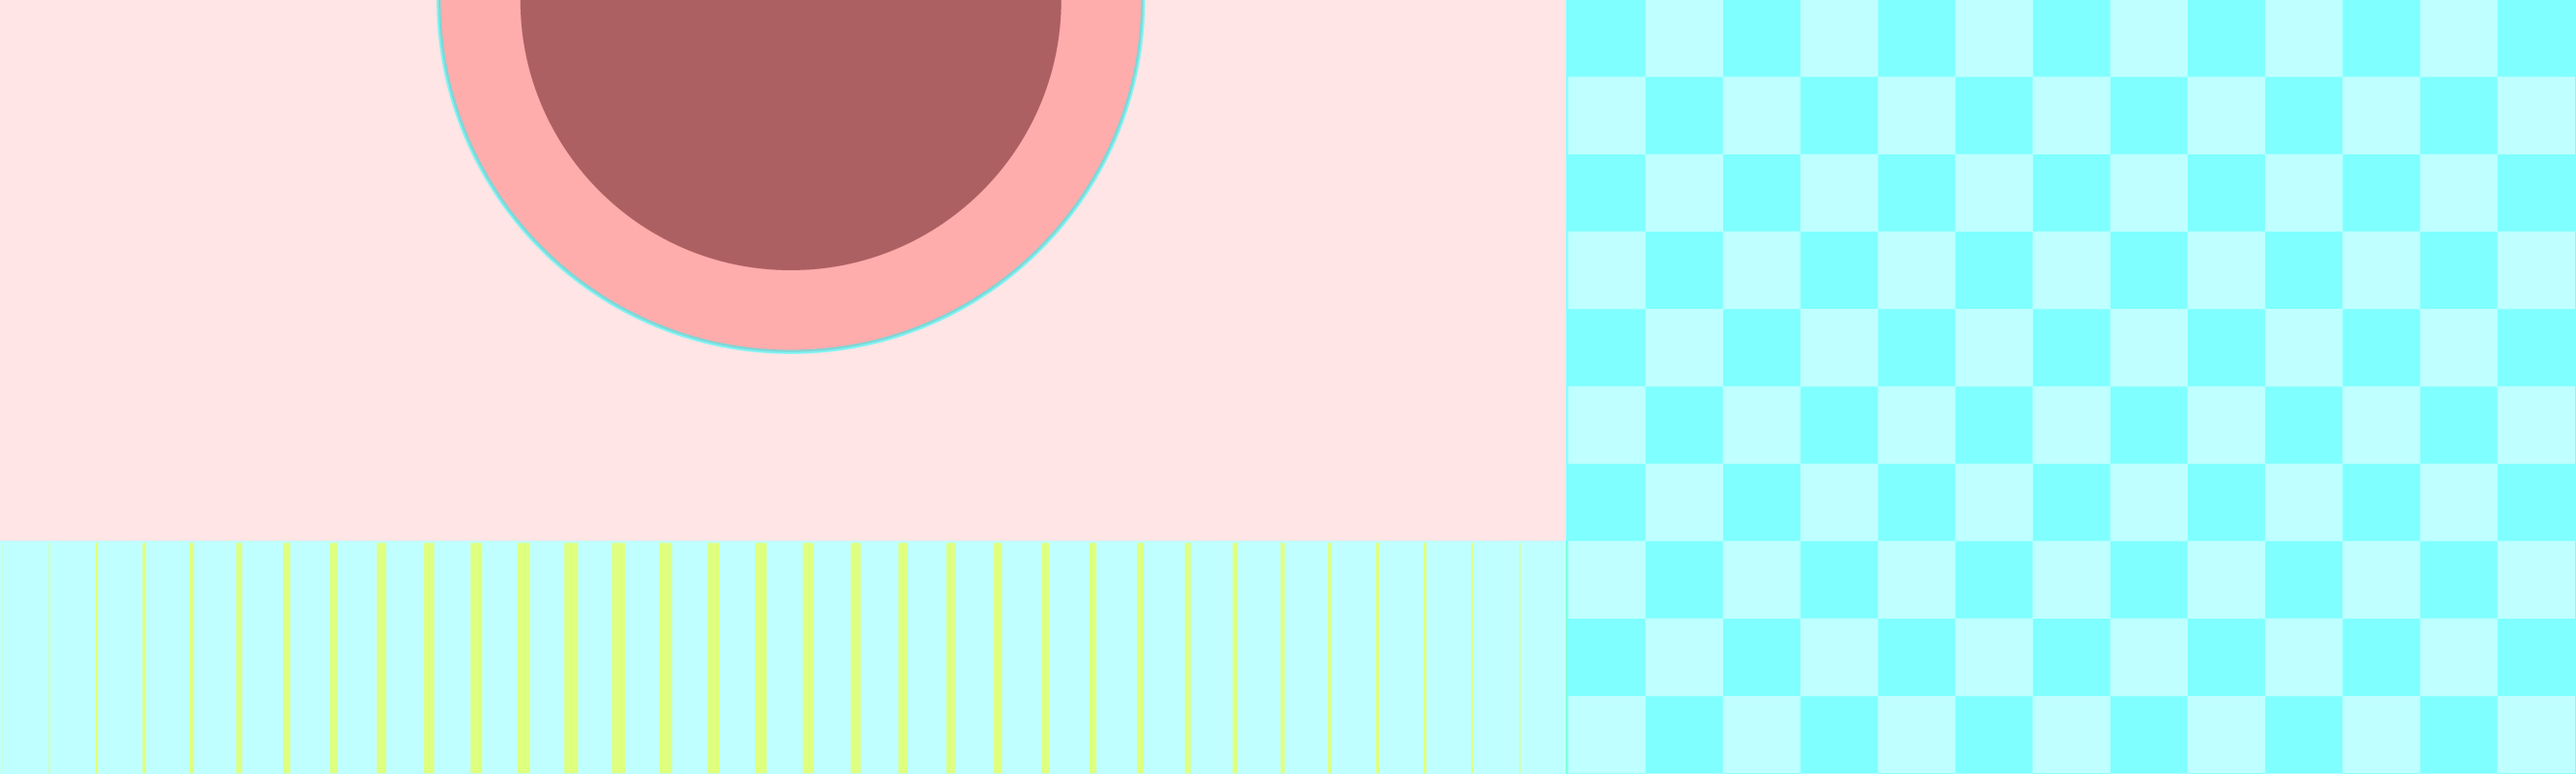
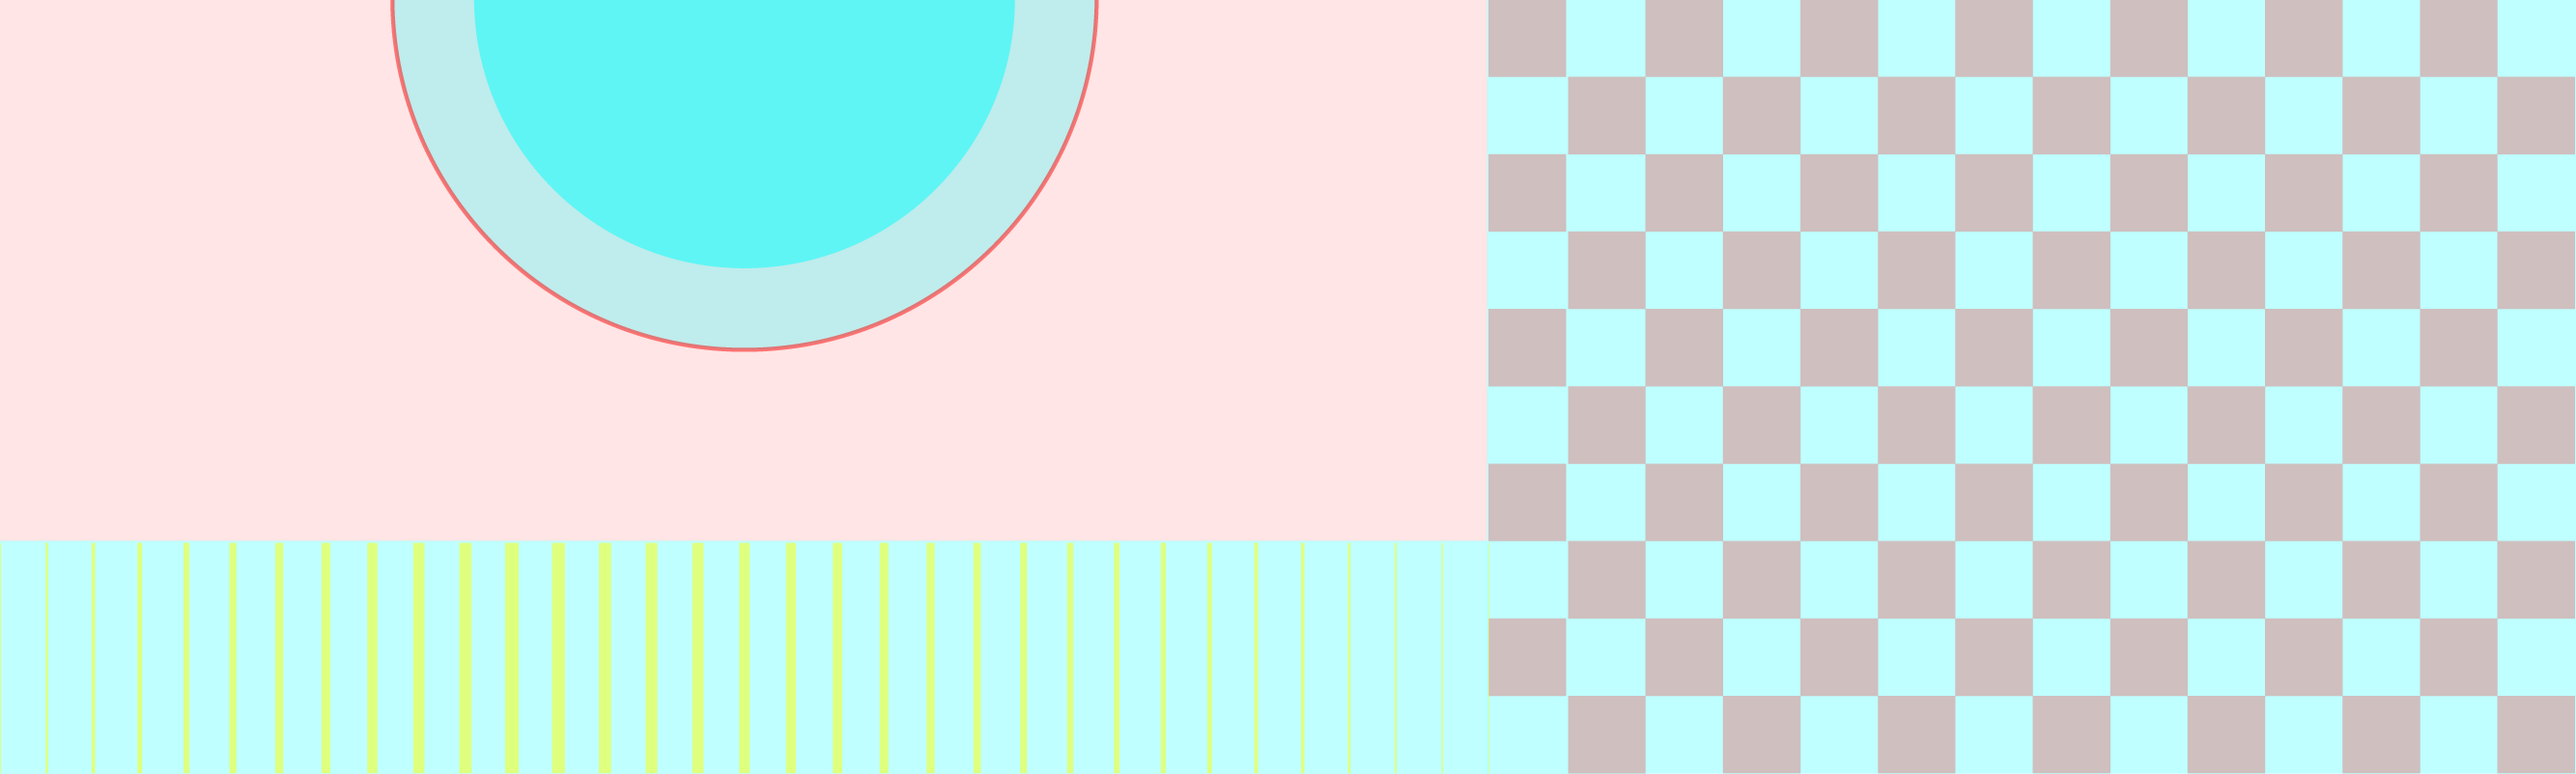
updating layout, navbar, and homepage

diff --git a/client/src/screens/JamDetail/JamDetail.jsx b/client/src/screens/JamDetail/JamDetail.jsx
@@ -4,7 +4,7 @@ import { useParams } from "react-router-dom";
 import { getJam, deleteJam } from "../../services/jams";
 import { useHistory } from "react-router";
 import "./JamDetail.css";
-// import Button from "react-bootstrap/Button";
+// import button from "react-bootstrap/button";
 import { addToCart } from "../../services/users";
 
 export default function JamDetail(props) {
@@ -42,8 +42,9 @@ export default function JamDetail(props) {
 
   return (
     <Layout user={props.user}>
+      
       <div></div>
-      {/* <div className="jam-detail-pg">
+      <div className="jam-detail-pg">
         <div className="detail-image">
           <img src={jam.imgURL} alt={jam.name} />
         </div>
@@ -58,36 +59,36 @@ export default function JamDetail(props) {
           <div className="buttons">
             {props.user && !jam.restricted ? (
               <>
-                <Button
+                <button
                   variant="outline-dark"
                   id="anchor-btn"
                   className="detail-button"
                 >
                   <a href={`/jams/${jam._id}/edit`}>Edit</a>
-                </Button>
-                <Button
+                </button>
+                <button
                   variant="outline-dark"
                   className="detail-button"
                   onClick={deleteAndPush}
                 >
                   Delete
-                </Button>
+                </button>
               </>
             ) : null}
             {props.user ? (
               <>
-                <Button
+                <button
                   variant="outline-dark"
                   type="submit"
                   onClick={handleAdd}
                 >
                   Add to Cart
-                </Button>
+                </button>
               </>
             ) : null}
           </div>
         </div>
-      </div> */}
+      </div>
     </Layout>
   );
 }

diff --git a/client/src/components/Banner/Banner.jsx b/client/src/components/Banner/Banner.jsx
@@ -4,29 +4,28 @@ import lineGradient from "../../images/line-gradient.svg";
 import jamVideo from "../../images/jam.mp4";
 import { Link } from "react-router-dom";
 import banner from "../../images/banner-01.png";
+import Navbar from "../Nav/Navbar";
 
 export default function Banner() {
   return (
     <div className="featured-jams-banner mb-3">
       <div className="">
-        <div>
+        <div className="w-4/5 mix-blend-color-burn fixed flex flex-col items-center top-3 z-50">
+          <Navbar />
+        </div>
+        <div className="relative">
           <img
-            className="filter  mix-blend-hard-light  hue-rotate-180 opacity-80 "
+            className="filter  mix-blend-color-soft-light  opacity-80  "
             src={banner}
             alt=""
           />
         </div>
-        {/* <img
-          className="absolute bottom-0 mix-blend-overlay"
-          src={lineGradient}
-          alt=""
-        /> */}
 
         <div className="w-2/5 lg:w-2/5 md:w-2/5 sm:w-screen absolute top-0 right-0 ">
           {/* <div className="h-30 bg-white ">test</div> */}
 
           <img
-            className="p-5 absolute top-0 right-0 filter  mix-blend-hard-light hue-rotate-60 brightness-125"
+            className="p-4 absolute top-0 right-0 filter  mix-blend-hard-light hue-rotate-15 brightness-105 "
             src={gjamLogo}
             alt=""
             srcset=""

diff --git a/client/src/components/JamCard/JamCard.jsx b/client/src/components/JamCard/JamCard.jsx
@@ -1,6 +1,7 @@
 import "./JamCard.css";
 import JamModal from "../JamModal/JamModal";
 import { useState } from "react";
+import { Link } from "react-router-dom";
 
 export default function JamCard(props) {
   const { name, price } = props.jam;
@@ -16,24 +17,18 @@ export default function JamCard(props) {
   };
 
   return (
-    <div className="flex w-1/3 flex-col  items-center">
-      <JamModal
-        jam={props.jam}
-        open={open}
-        handleOpen={handleOpen}
-        handleClose={handleClose}
-        user={props.user}
-      />
-
-      <div className="flex justify-center">
-        <img
-          onClick={handleOpen}
-          className="flex justify-center w-11/12 mb-4"
-          src={isShown ? props.jam.imgURL : props.jam.hoverImage}
-          alt={name}
-          onMouseEnter={() => setIsShown(false)}
-          onMouseLeave={() => setIsShown(true)}
-        />
+    <div className="w-full">
+      <div className="">
+        <Link to={`/jams/${props.jam._id}`}>
+          <img
+            onClick={handleOpen}
+            className=""
+            src={isShown ? props.jam.imgURL : props.jam.hoverImage}
+            alt={name}
+            onMouseEnter={() => setIsShown(false)}
+            onMouseLeave={() => setIsShown(true)}
+          />
+        </Link>
       </div>
 
       {/* <div className="jam-info">

diff --git a/client/src/components/Nav/Navbar.jsx b/client/src/components/Nav/Navbar.jsx
@@ -1,0 +1,24 @@
+import React from "react";
+import { Link } from "react-router-dom";
+
+export default function Navbar() {
+  return (
+    <div className=" text-sm p-2 mix-blend-color-burn text-white bg-slate-700 w-44 font-gt-mono flex flex-row justify-around">
+      <div>
+        <Link className=" text-white hover:brightness-200 hover:invert  ">
+          JAMS
+        </Link>
+      </div>
+      <div>
+        <Link className=" text-white hover:brightness-200 hover:invert ">
+          ABOUT
+        </Link>
+      </div>
+      <div>
+        <Link className=" text-white hover:brightness-200 hover:invert ">
+          LOGIN
+        </Link>
+      </div>
+    </div>
+  );
+}

diff --git a/client/src/components/Layout/Layout.jsx b/client/src/components/Layout/Layout.jsx
@@ -2,12 +2,14 @@ import Footer from "../Footer/Footer";
 import Nav from "../Nav/Nav";
 import Banner from "../Banner/Banner";
 import "./Layout.css";
+import RightNav from "../Nav/RightNav";
 
 export default function Layout(props) {
   return (
     <div className="layout bg-gradient">
-      {props.banner ? <Banner /> : null}
+      {props.banner ? <Banner /> : <RightNav />}
       {/* <Nav user={props.user} /> */}
+
       <div className="layout-children">{props.children}</div>
       <Footer />
     </div>

diff --git a/client/src/components/FeaturedJams/FeaturedJams.css b/client/src/components/FeaturedJams/FeaturedJams.css
@@ -1,6 +1,6 @@
 .featured-jams-container {
   margin: 0 auto;
-  display: -ms-flexbox;
+  /* display: -ms-flexbox;
   display: -webkit-flex;
   display: flex;
   -webkit-flex-direction: row;
@@ -19,7 +19,7 @@
   -ms-flex-align: start;
   align-items: flex-start;
   width: 90%;
-  padding: 0 5% 0;
+  padding: 0 5% 0; */
   /* margin: 10px auto; */
   /* margin-top: 5%; */
 }

diff --git a/client/src/index.css b/client/src/index.css
@@ -43,7 +43,7 @@
   font-weight: bold;
 }
 
-body {
+/* body {
   margin: 0;
   font-family: -apple-system, BlinkMacSystemFont, "Segoe UI", "Roboto", "Oxygen",
     "Ubuntu", "Cantarell", "Fira Sans", "Droid Sans", "Helvetica Neue",
@@ -55,4 +55,4 @@ body {
 code {
   font-family: source-code-pro, Menlo, Monaco, Consolas, "Courier New",
     monospace;
-}
+} */

diff --git a/client/tailwind.config.js b/client/tailwind.config.js
@@ -23,7 +23,7 @@ module.exports = {
         container: "1700px",
       },
       cursor: {
-        star: "url('/client/src/images/star-cursor.png'), default",
+        star: "url('/Users/jexica/Sync/CODE/GA/gjam/client/src/images/star-cursor.png'), default",
       },
       animation: {
         "bounce-slow": "bounce-slow 1s ease-in-out infinite",

diff --git a/client/src/components/FeaturedJams/FeaturedJams.jsx b/client/src/components/FeaturedJams/FeaturedJams.jsx
@@ -15,7 +15,7 @@ export default function FeaturedJams(props) {
   }, []);
 
   return (
-    <div className="featured-jams-container">
+    <div className="grid grid-cols-3 lg:grid-cols-3 md:grid-cols-2 sm:grid-cols-1 gap-4 px-14 ">
       {featuredJams.map((jam, index) => {
         return (
           <JamCard

diff --git a/client/src/components/Layout/Layout.css b/client/src/components/Layout/Layout.css
@@ -4,7 +4,7 @@
   min-height: 100vh;
   background-image: url("../../images/gradient-6.png");
   background-size: cover;
-  background-position: left;
+  background-position: right;
 }
 
 /* .bg-gradient {

diff --git a/client/src/screens/JamDetail/JamDetail.css b/client/src/screens/JamDetail/JamDetail.css
@@ -1,4 +1,4 @@
-.jam-detail-pg {
+/* .jam-detail-pg {
   display: flex;
   flex-direction: row;
   margin: 10rem auto;
@@ -73,4 +73,4 @@ p {
   .edit-button {
     height: 36px;
   }
-}
+} */

diff --git a/client/src/components/Nav/Nav.jsx b/client/src/components/Nav/Nav.jsx
@@ -6,6 +6,9 @@ import "./Nav.css";
 export default function NavMenu(props) {
   return (
     <div>nav</div>
+
+
+
     // <Navbar
     //   sticky="top"
     //   collapseOnSelect
